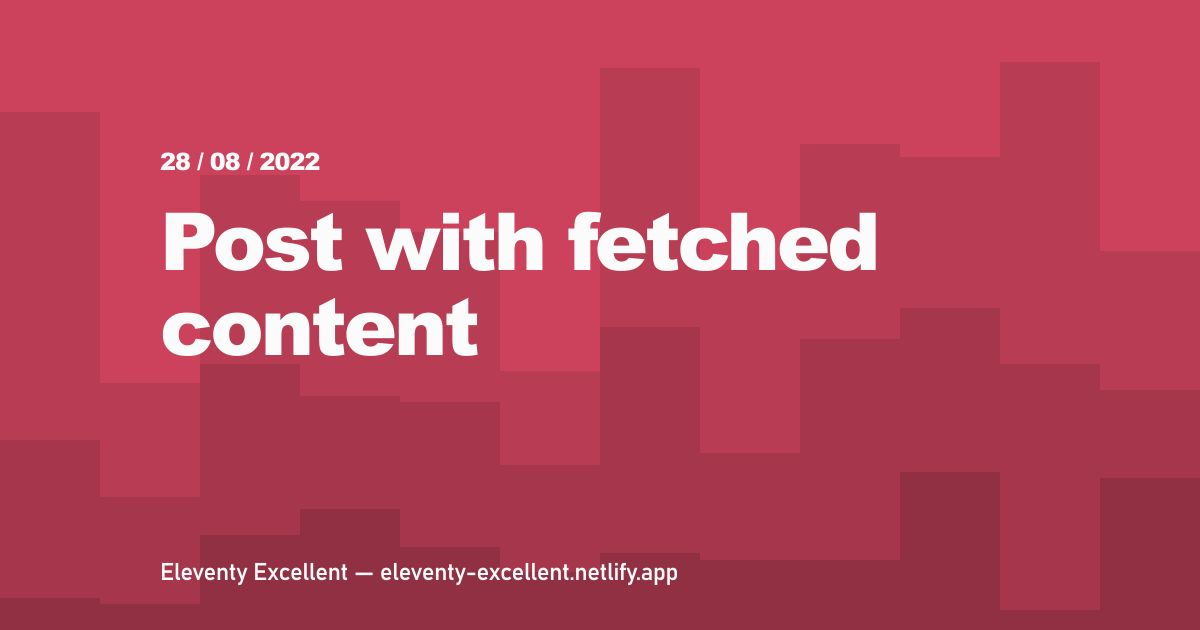
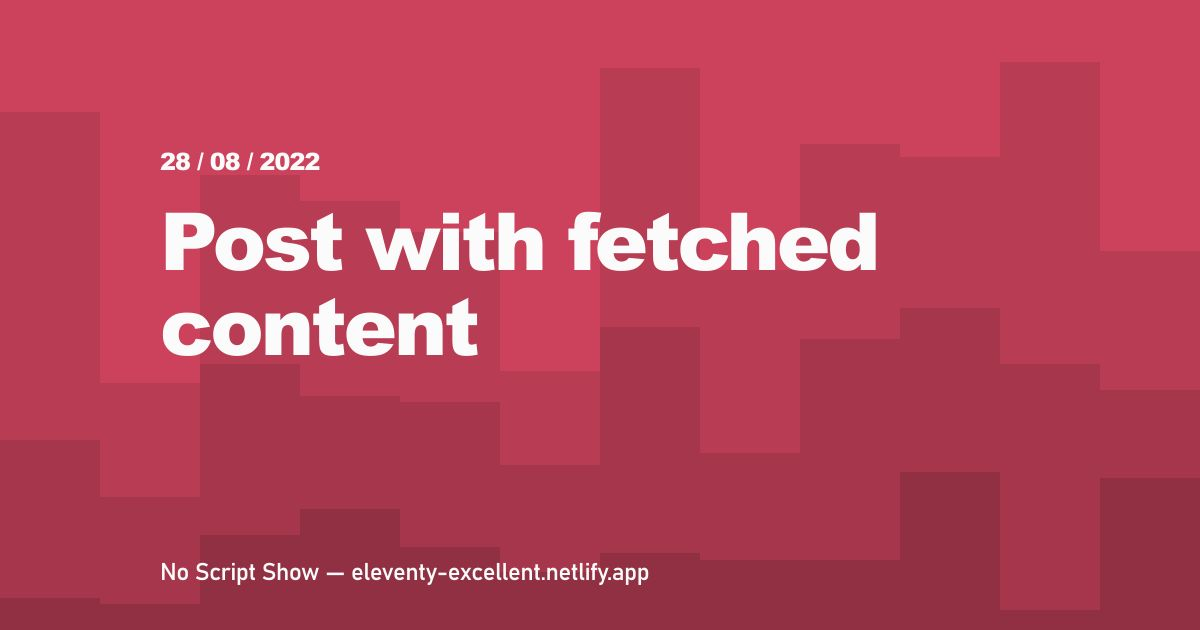
more updates

Changed region(s): [[0.1233, 0.8746, 0.5858, 0.9349]]

diff --git a/src/assets/css/global/blocks/external-link.css b/src/assets/css/global/blocks/external-link.css
@@ -1,10 +1,10 @@
 article
-  a[href^='http']:not([href*='localhost:8080']):not([href*='eleventy-excellent.netlify.app']):not(.button) {
+  a[href^='http']:not([href*='localhost:8080']):not([href*='nssexcellent.netlify.app']):not(.button) {
   padding-inline-end: 0.8em;
 }
 
 article
-  a[href^='http']:not([href*='localhost:8080']):not([href*='eleventy-excellent.netlify.app']):not(
+  a[href^='http']:not([href*='localhost:8080']):not([href*='nssexcellent.netlify.app']):not(
     .no-indicator
   )::after {
   position: absolute;

diff --git a/src/posts/2024/2024-06-03-v-e.md b/src/posts/2024/2024-06-03-v-e.md
@@ -1,0 +1,45 @@
+---
+title: 'hey'
+description: I created this starter after I saw Andy’s talk and studied the source code for **buildexcellentwebsit.es.** I quickly came to the conclusion that this is the way I want to build all my websites from now on! It's so great. I know many of you feel the same way.'
+discover:
+  description: "I used markdown Syntax in the description, this is why I set this other description to be used in the meta description and the blog schema."
+date: 2024-12-01
+---
+
+I changed so much, that documenting everything will be hard. I will try and name the most important changes in the next few weeks.
+
+## Maybe a quick "why" first
+
+I created this starter after I saw [Andy's talk](https://eleventy-excellent.netlify.app/about/#watch-the-talk) and studied the source code for buildexcellentwebsit.es.
+
+I quickly came to the conclusion that this is the way I want to build all my websites from now on! It's so great. I know many of you feel the same way.
+
+I had already accumulated a lot of opinions, files and basic settings from my previous Eleventy projects, and to make it easier for me to start a new project in the future, I combined everything in this starter. The name is a tribute to its origin:
+
+> "Go Forth And Build **Excellent** Websites"!
+
+When that was finished, I thought it was only fair to make it easily accessible to others, and at the end of 2022 I registered the starter with the [official stater projects](https://www.11ty.dev/docs/starter/).
+
+What I didn't count on, was _how many_ people would actually go and use the starter.
+
+So many of you have also contacted me or contributed something.
+
+## I wanted to make the starter better
+
+I have since made sure that everything stays fairly updated, fixed a few bugs and added a few features -- but I haven't quite dared to change the base too much, now that so many others were involved.
+
+The thing is, I have learned **lots of new things** and changed my mind about other stuff like naming or organization in the last year and a half. Whenever I begin a project now, I still turn to this starter -- but I modify _a lot_ before I get started. This goes above all for the organization and naming of files and folders, modern CSS, and better accessibility.
+
+You will see that many things are new and different, but better! And that the basic character is still the same.
+
+I will try and take some time to document important changes so you can upgrade more easily.
+
+[I have kept v1 in a separate branch.](https://github.com/madrilene/eleventy-excellent/tree/v1)
+
+## Plans for the future
+
+- I will change everything to ES modules as soon as Eleventy v3 with ESM support is stable.
+- I might bring back the drawer menu as something to opt in (**Update:** I did this already, see "[Get started](/get-started/#navigation)").
+- Lots of small fixes, no doubt.
+
+**Thank you and let's build more excellent websites!**

diff --git a/src/posts/2025/2025-01-10-ny.md b/src/posts/2025/2025-01-10-ny.md
@@ -1,0 +1,45 @@
+---
+title: 'Happy New Year too '
+description: "This is my new year post."
+date: 2025-01-10
+---
+
+# Uncos texit trepido incidit viderunt ea sedes
+
+**Lorem** markdownum cui, sunt axes vocisque duce gurgite et poterat veste summum,
+*crabronum* vidit. Quid ituros delicta de ventre, dissaepserat precor male piscis,
+factis Herculis non palmae si aut me Atlantiades!
+
+Oves deficiunt suae: Livor cogis insuperabile potae fama clarus! Tisiphone
+aestuat, huic et dimovit umbra Bisaltida ratus illa fecisse fatali, pectore at
+vota. Quae abire scitanti multum pectus, facit et erant infelix flagrans.
+Tritonidos rector conviciaque sunt conatur, omnes longo canistris [Markdown Cheat Sheet](https://www.geeksforgeeks.org/markdown-cheat-sheet/).
+
+
+## Potuit utrimque
+
+Inquam illa atque, nulla. Esse nec, has mihi, *generosaque* posset regia pari
+facis deserit licet teque poscenti igitur.
+
+- Hunc mollia lacrimis et fluctus subit
+- Abdita Bubastis superi
+- Sequentes illic stridit et fixa loricaeque nymphae
+- Iste optima removerat dominae
+
+
+![Alt Text](https://images.unsplash.com/photo-1717179741557-15067f04d90d?q=80&w=1932&auto=format&fit=crop&ixlib=rb-4.0.3&ixid=M3wxMjA3fDB8MHxwaG90by1wYWdlfHx8fGVufDB8fHx8fA%3D%3D)
+
+Meo sublime, sed corpora Veneris. Futuri moveri liber latebris caespite ad mundi
+rigidis huius per. Terras turpes. Disce monitisque oneri, inferias vana suas
+genitor! Thisbes licet: dic sed enim geminam crescendo pectora oculos!
+
+## Multis anili arma homines turba flemus nomen
+
+Animumque negare crepuitque ministri pietatis. Cumque ortos canes et hunc
+polluit suadeat vultu Interea! Divae pariter rupe amplexus renasci erat, monstra
+aegre, nullis pars, tonitrumque carinas conclamat quoque tangat.
+
+Culpa quae Cumarum; sed ora! Ore in descendere perque. Vile colla in pervia
+vertitur, in ambitiosa voce vocatur. Et Pirenidas aquas carebat patet. Nymphae
+non nocent erat Saeculaque vulnere annis, et pereat geniti praeside ferunt
+dixit.

diff --git a/src/posts/2025/2025-01-10-ny2.md b/src/posts/2025/2025-01-10-ny2.md
@@ -1,0 +1,45 @@
+---
+title: 'Happy New Year '
+description: "This is my new year post."
+date: 2025-01-10
+---
+
+# Uncos texit trepido incidit viderunt ea sedes
+
+**Lorem** markdownum cui, sunt axes vocisque duce gurgite et poterat veste summum,
+*crabronum* vidit. Quid ituros delicta de ventre, dissaepserat precor male piscis,
+factis Herculis non palmae si aut me Atlantiades!
+
+Oves deficiunt suae: Livor cogis insuperabile potae fama clarus! Tisiphone
+aestuat, huic et dimovit umbra Bisaltida ratus illa fecisse fatali, pectore at
+vota. Quae abire scitanti multum pectus, facit et erant infelix flagrans.
+Tritonidos rector conviciaque sunt conatur, omnes longo canistris [Markdown Cheat Sheet](https://www.geeksforgeeks.org/markdown-cheat-sheet/).
+
+
+## Potuit utrimque
+
+Inquam illa atque, nulla. Esse nec, has mihi, *generosaque* posset regia pari
+facis deserit licet teque poscenti igitur.
+
+- Hunc mollia lacrimis et fluctus subit
+- Abdita Bubastis superi
+- Sequentes illic stridit et fixa loricaeque nymphae
+- Iste optima removerat dominae
+
+
+![Alt Text](https://images.unsplash.com/photo-1717179741557-15067f04d90d?q=80&w=1932&auto=format&fit=crop&ixlib=rb-4.0.3&ixid=M3wxMjA3fDB8MHxwaG90by1wYWdlfHx8fGVufDB8fHx8fA%3D%3D)
+
+Meo sublime, sed corpora Veneris. Futuri moveri liber latebris caespite ad mundi
+rigidis huius per. Terras turpes. Disce monitisque oneri, inferias vana suas
+genitor! Thisbes licet: dic sed enim geminam crescendo pectora oculos!
+
+## Multis anili arma homines turba flemus nomen
+
+Animumque negare crepuitque ministri pietatis. Cumque ortos canes et hunc
+polluit suadeat vultu Interea! Divae pariter rupe amplexus renasci erat, monstra
+aegre, nullis pars, tonitrumque carinas conclamat quoque tangat.
+
+Culpa quae Cumarum; sed ora! Ore in descendere perque. Vile colla in pervia
+vertitur, in ambitiosa voce vocatur. Et Pirenidas aquas carebat patet. Nymphae
+non nocent erat Saeculaque vulnere annis, et pereat geniti praeside ferunt
+dixit.

diff --git a/src/posts/2024/2024-06-03-v-3.md b/src/posts/2024/2024-06-03-v-3.md
@@ -6,7 +6,7 @@ discover:
 date: 2024-06-03
 ---
 
-It's been a few months, and I have decided to change things again, which probably makes the starter even more opinionated 🤷. For those who prefer the previous version, Version 2 will remain accessible in its own branch.
+hello It's been a few months, and I have decided to change things again, which probably makes the starter even more opinionated 🤷. For those who prefer the previous version, Version 2 will remain accessible in its own branch.
 
 **Core changes:**
 
